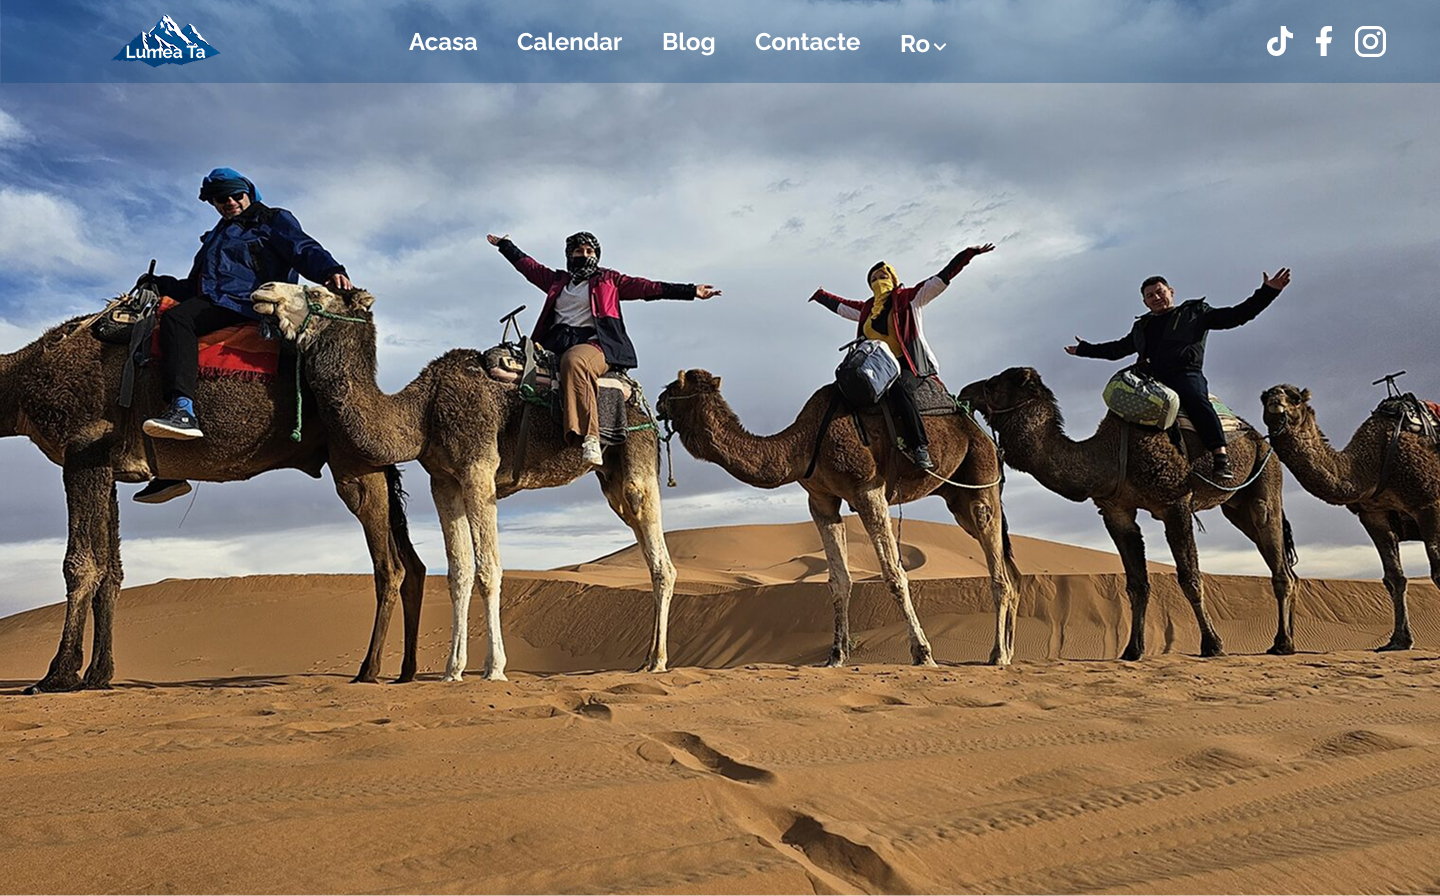
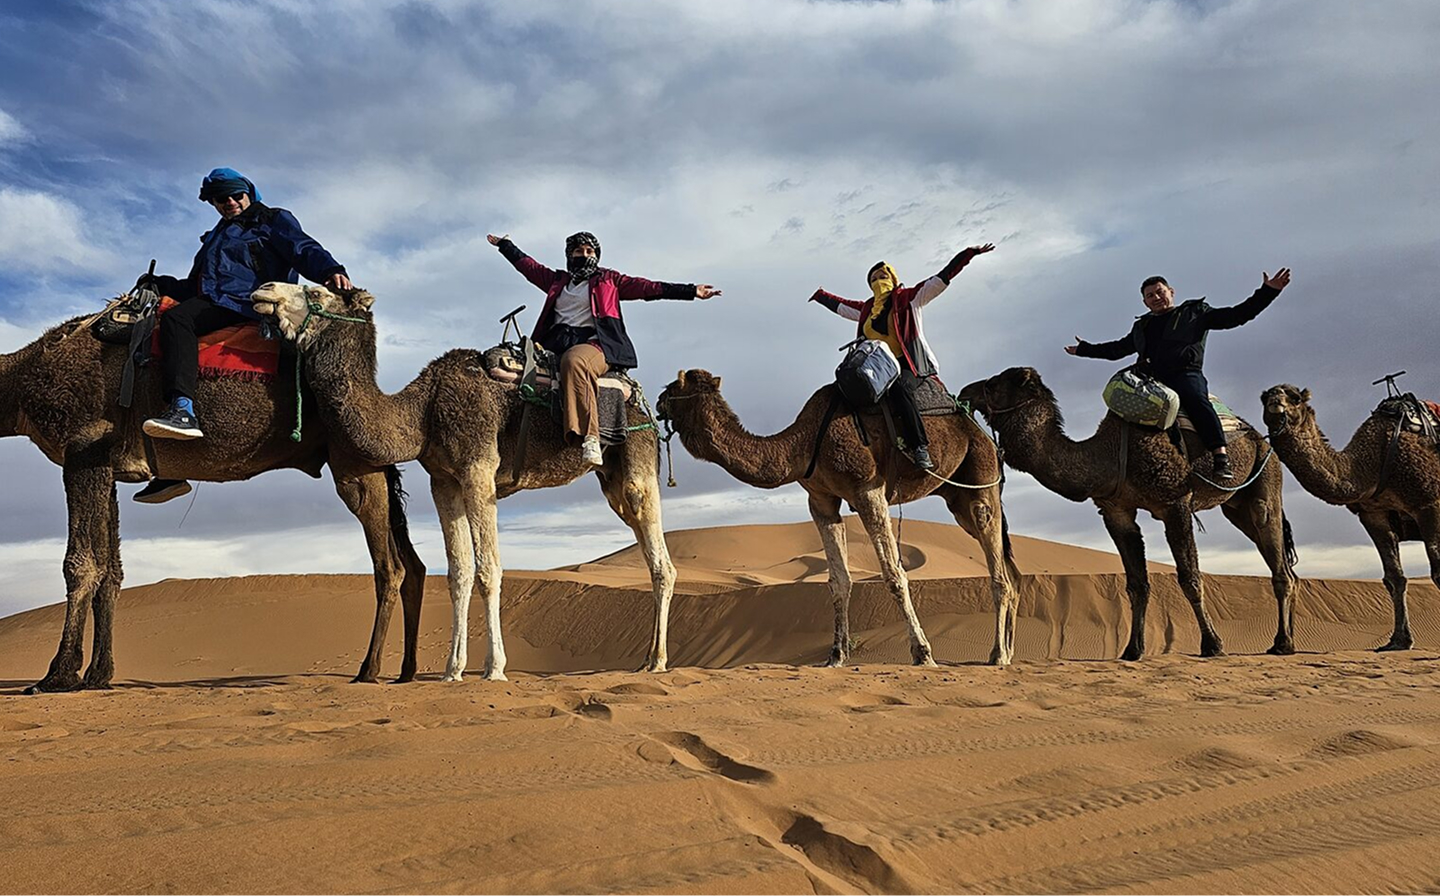
Trip page initialization , first components for it

Changed region(s): [[0.0312, 0.0, 1.0, 0.0938]]

diff --git a/src/components/abouttrip.tsx b/src/components/abouttrip.tsx
@@ -1,0 +1,77 @@
+import React from 'react';
+import './abouttrip.css';
+import perioada from "../assets/perioada.svg";
+import durata from "../assets/durata.svg";
+import dificulatete from "../assets/dificultate.svg";
+import pret from "../assets/pret.svg";
+
+interface AboutTripProps {
+  currentLang: 'ro' | 'ru';
+  period: string;
+  duration: string;
+  difficulty: string;
+  price: string;
+}
+
+const translations = {
+  ru: {
+    title: "О путешествии",
+    time: "Период",
+    duration: "Длительность",
+    difficulty: "Сложность",
+    price: "Цена",
+    button: "Забронировать место",
+    description: "Нажимая на кнопку, вы даете согласие на обработку персональных данных и соглашаетесь с политикой конфиденциальности."
+  },
+  ro: {
+    title: "Despre Călătorie",
+    time: "Perioada",
+    duration: "Durata",
+    difficulty: "Dificultate",
+    price: "Preț",
+    button: "Rezervă-ți locul",
+    description: "Făcând clic pe buton, îți dai consimțământul pentru prelucrarea datelor personale și ești de acord cu politica de confidențialitate."
+  }
+};
+
+const AboutTrip: React.FC<AboutTripProps> = ({ currentLang, period, duration, difficulty, price }) => {
+  return (
+    <div className="abouttrip">
+      <h1 className='abouttrip-title'>{translations[currentLang].title}</h1>
+      <ul className="abouttrip-list">
+        <li className="abouttrip-list-item">
+          <img src={perioada} className="abouttrip-list-item-img" />
+          <div>
+            <h2 className="abouttrip-list-item-title">{translations[currentLang].time}</h2>
+            <p className="abouttrip-list-item-value">{period}</p>
+          </div>
+        </li>
+        <li className="abouttrip-list-item">
+          <img src={durata} className="abouttrip-list-item-img" />
+          <div>
+            <h2 className="abouttrip-list-item-title">{translations[currentLang].duration}</h2>
+            <p className="abouttrip-list-item-value">{duration}</p>
+          </div>
+        </li>
+        <li className="abouttrip-list-item">
+          <img src={dificulatete} className="abouttrip-list-item-img" />
+          <div>
+            <h2 className="abouttrip-list-item-title">{translations[currentLang].difficulty}</h2>
+            <p className="abouttrip-list-item-value">{difficulty}</p>
+          </div>
+        </li>
+        <li className="abouttrip-list-item">
+          <img src={pret} className="abouttrip-list-item-img" />
+          <div>
+            <h2 className="abouttrip-list-item-title">{translations[currentLang].price}</h2>
+            <p className="abouttrip-list-item-value">{price}</p>
+          </div>
+        </li>
+      </ul>
+      <button className="abouttrip-button">{translations[currentLang].button}</button>
+      <p className="abouttrip-description">{translations[currentLang].description}</p>
+    </div>
+  );
+};
+
+export default AboutTrip;

diff --git a/src/components/abouttrip.css b/src/components/abouttrip.css
@@ -1,0 +1,130 @@
+.abouttrip {
+  display: flex;
+  flex-direction: column;
+  align-items: center;
+  padding: 5vw 2vw;
+  width: 100%;
+  box-sizing: border-box;
+}
+
+.abouttrip-title {
+  font-family: "Raleway", sans-serif;
+  font-size: 4vw;
+  font-weight: 700;
+  color: #00417A;
+  text-align: center;
+  margin: 0 0 4vw 0;
+}
+
+.abouttrip-list {
+  display: flex;
+  flex-direction: row;
+  justify-content: center;
+  align-items: center;
+  list-style: none;
+  margin: 0;
+  padding: 0;
+  gap: 3vw;
+  width: 100%;
+  max-width: 80vw;
+}
+
+.abouttrip-list-item {
+  display: flex;
+  flex-direction: row;
+  align-items: center;
+  gap: 1vw;
+  flex: 1;
+  justify-content: center;
+}
+
+.abouttrip-list-item-img {
+  width: 3vw;
+  height: 3vw;
+  object-fit: contain;
+}
+
+.abouttrip-list-item-title {
+  font-family: "Manrope", sans-serif;
+  font-size: 1.2vw;
+  font-weight: 700;
+  color: #2C2C2C;
+  margin: 0;
+  text-align: left;
+}
+
+.abouttrip-button {
+  font-family: "Raleway", sans-serif;
+  font-size: 1.3vw;
+  font-weight: 500;
+  background-color: #00417A;
+  color: white;
+  border: none;
+  padding: 1.5vw 3vw;
+  border-radius: 1vw;
+  cursor: pointer;
+  margin: 4vw 0 2vw 0;
+  transition: background-color 0.3s ease;
+}
+
+.abouttrip-button:hover {
+  background-color: #003366;
+}
+
+.abouttrip-description {
+  font-family: "Manrope", sans-serif;
+  font-size: 1vw;
+  font-weight: 300;
+  color: #666666;
+  text-align: center;
+  max-width: 60vw;
+  line-height: 1.4;
+  margin: 0;
+}
+
+.trippage-informations {
+  position: relative;
+  z-index: 100;
+  margin-top: 100vh; 
+  background-color: white; 
+  padding-top: 5vw; 
+}
+
+.trippage-informations-about {
+  width: 100%;
+}
+
+.abouttrip-list-item-value {
+  font-family: "Manrope", sans-serif;
+  font-size: 1.2vw;
+}
+
+@media (max-width: 768px) {
+  .abouttrip-list {
+    flex-direction: column;
+    gap: 2vw;
+  }
+  
+  .abouttrip-list-item {
+    justify-content: flex-start;
+    width: 100%;
+  }
+  
+  .abouttrip-title {
+    font-size: 6vw;
+  }
+  
+  .abouttrip-list-item-title {
+    font-size: 3vw;
+  }
+  
+  .abouttrip-button {
+    font-size: 4vw;
+    padding: 3vw 6vw;
+  }
+  
+  .abouttrip-description {
+    font-size: 2.5vw;
+    max-width: 90vw;
+  }
+}

diff --git a/src/pages/TripPage.tsx b/src/pages/TripPage.tsx
@@ -1,0 +1,35 @@
+import React, { useState } from 'react';
+import './TripPage.css';
+import NavBar from "../components/navbar";
+import translations from "./TripPage.json";
+import Footer from "../components/footer";
+import Contacts from "../components/contacts";
+import bg from "../assets/maroc ng.jpg"
+import About from "../components/abouttrip";
+
+const TripPage: React.FC = () => {
+  const [currentLang, setCurrentLang] = useState<'ro' | 'ru'>('ro');
+
+  return (
+    <div className="trippage">
+      <NavBar currentLang={currentLang} setCurrentLang={setCurrentLang} />
+      <img src={bg} className='trippage-bg'/>
+      <div className="trippage-fog-overlay"></div>
+      <div className="trippage-content">
+        <h1 className="trippage-title">{translations[currentLang].Maroc.title}</h1>
+        <h1 className="trippage-description">{translations[currentLang].Maroc.description}</h1>
+      </div>
+      <div className='trippage-informations'>
+        <div className='trippage-informations-about'>
+            <About currentLang={currentLang} period={translations[currentLang].Maroc.period} duration={translations[currentLang].Maroc.duration} difficulty={translations[currentLang].Maroc.difficulty} price={translations[currentLang].Maroc.price}/>
+        </div>
+      </div>
+      <div className='trippage-footer'>
+        <Contacts currentLang={currentLang}/>
+        <Footer currentLang={currentLang}/>
+      </div>
+    </div>
+  );
+};
+
+export default TripPage;

diff --git a/src/pages/TripPage.css b/src/pages/TripPage.css
@@ -1,0 +1,78 @@
+.trippage {
+  position: relative;
+  width: 100vw;
+  min-height: 100vh;
+  margin: 0;
+  padding: 0;
+  overflow-x: hidden;
+}
+
+.trippage-bg {
+  position: absolute;
+  top: 0;
+  left: 0;
+  width: 100%;
+  height: 100vh;
+  object-fit: cover;
+  z-index: -2;
+}
+
+.trippage-content {
+  position: absolute;
+  top: 0;
+  left: 0;
+  width: 100%;
+  height: 100vh;
+  display: flex;
+  flex-direction: column; 
+  align-items: center;
+  justify-content: center;
+  z-index: 2;
+}
+
+.trippage-title {
+  font-family: "Raleway", sans-serif;
+  font-size: 6vw;
+  font-weight: 700;
+  color: white;
+  text-align: center;
+  margin: 0;
+  margin-bottom: 10vw; 
+  z-index: 2;
+  margin-top: -15vw;
+}
+
+.trippage-description {
+  font-family: "Raleway", sans-serif;
+  font-size: 3vw; 
+  font-weight: 400;
+  color: white;
+  text-align: center;
+  margin: 0;
+  z-index: 2;
+}
+
+.trippage-fog-overlay {
+  position: absolute;
+  top: 0; 
+  left: 0;
+  width: 100%;
+  height: 100vh;
+  background: linear-gradient(
+    to bottom,
+    transparent 0%,
+    transparent 60%,
+    rgba(255, 255, 255, 0.3) 70%,
+    rgba(255, 255, 255, 0.7) 85%,
+    rgba(255, 255, 255, 0.9) 95%,
+    white 100%
+  );
+  z-index: 1;
+  pointer-events: none;
+}
+
+.trippage-footer {
+  position: relative;
+  margin-top: 60vw;
+  z-index: 100;
+}

diff --git a/src/App.tsx b/src/App.tsx
@@ -3,6 +3,7 @@ import { BrowserRouter as Router, Routes, Route } from 'react-router-dom'
 import HomePage from "./pages/HomePage"
 import BlogPage from "./pages/BlogPage"
 import ProgramrarePage from './pages/ProgramrarePage'
+import Maroc from "./pages/TripPage"
 
 function App() {
   return (
@@ -11,6 +12,7 @@ function App() {
         <Route path="/" element={<HomePage />} />
         <Route path="/blog" element={<BlogPage />} />
         <Route path="/calendar" element={<ProgramrarePage />} />
+        <Route path="/maroc" element={<Maroc />} />
       </Routes>
     </Router>
   )
